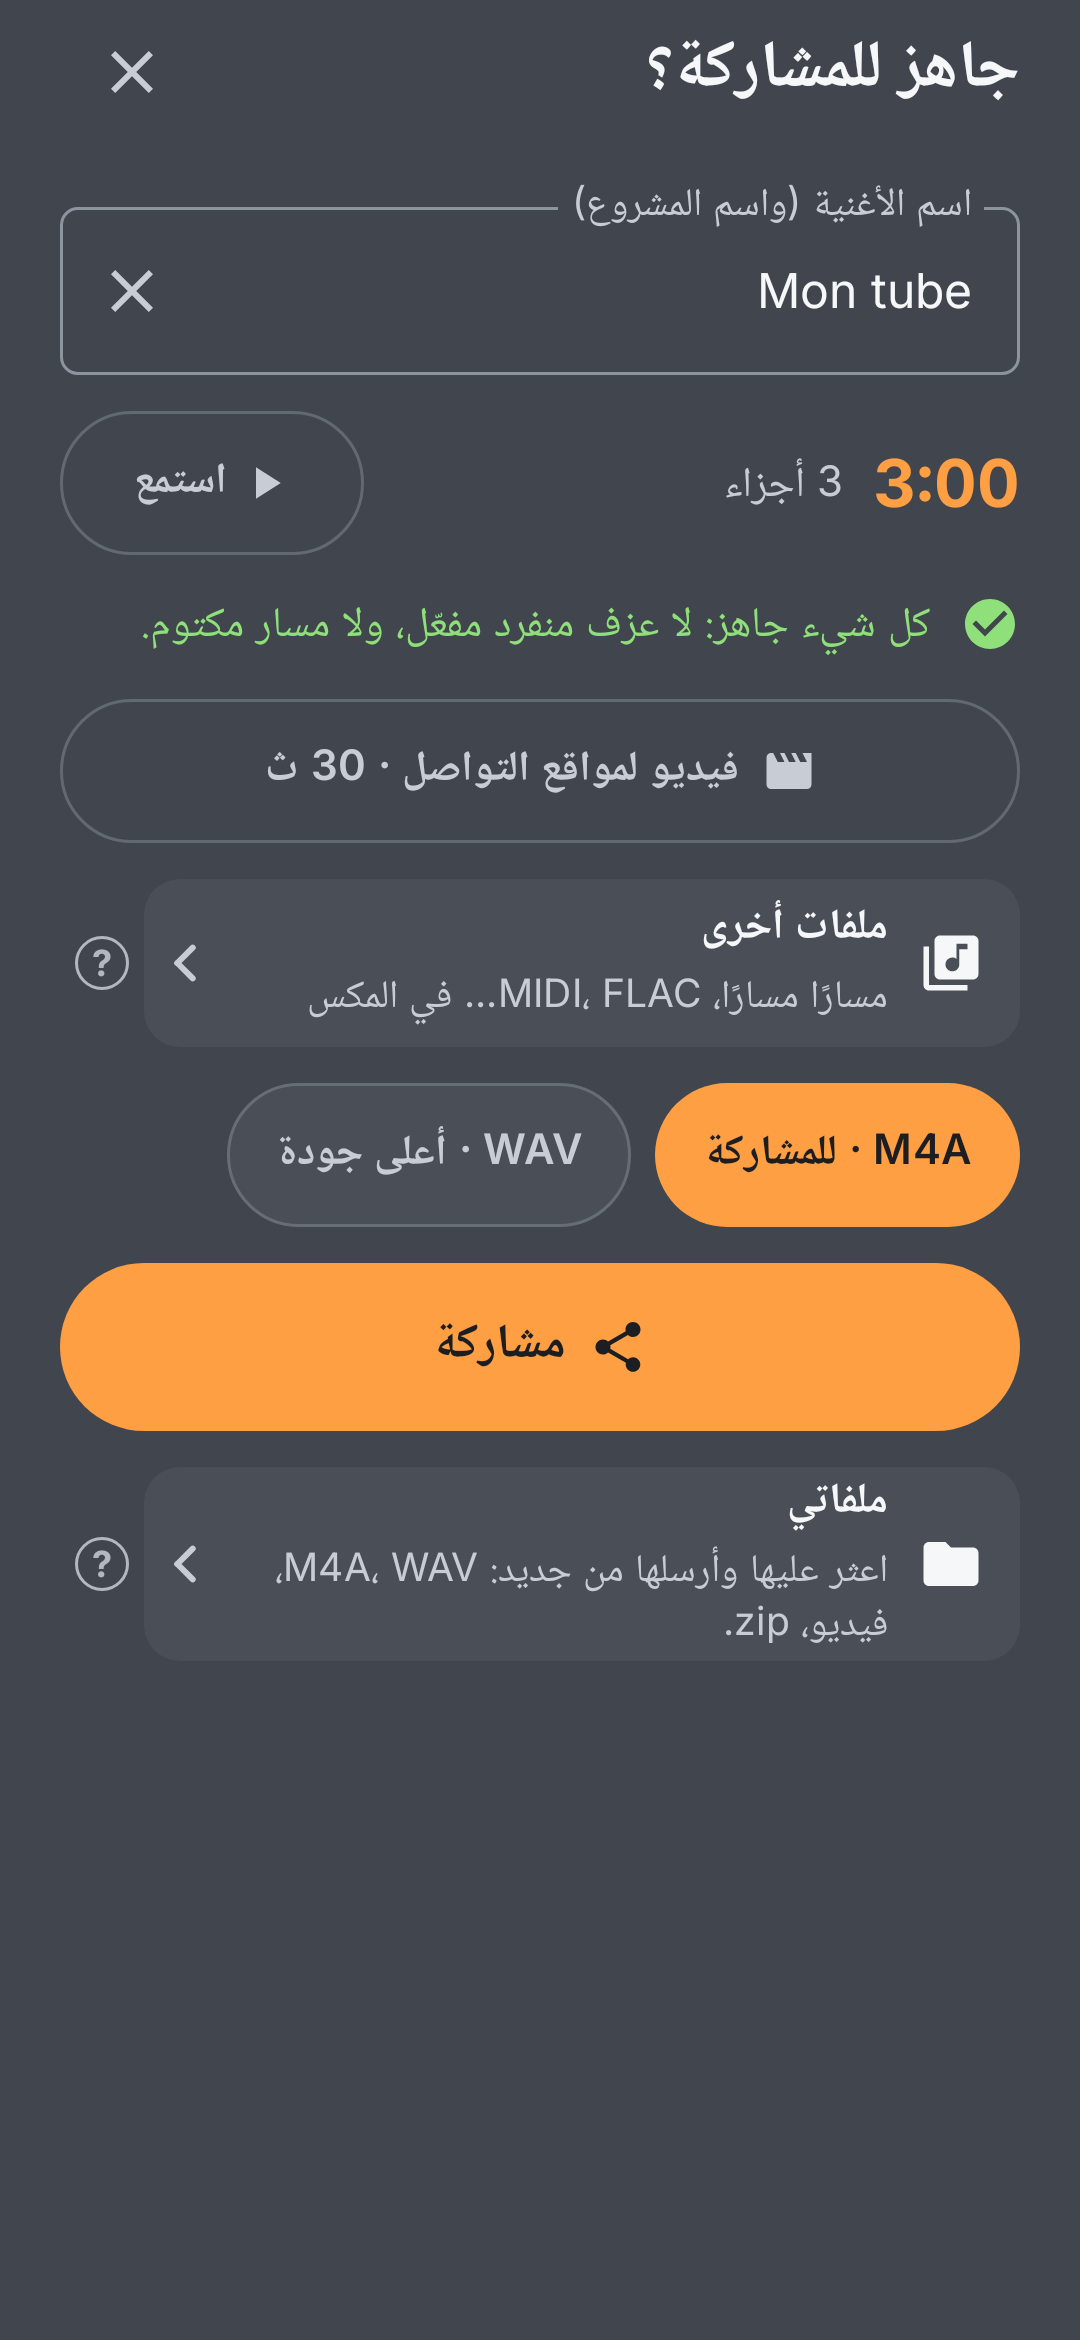
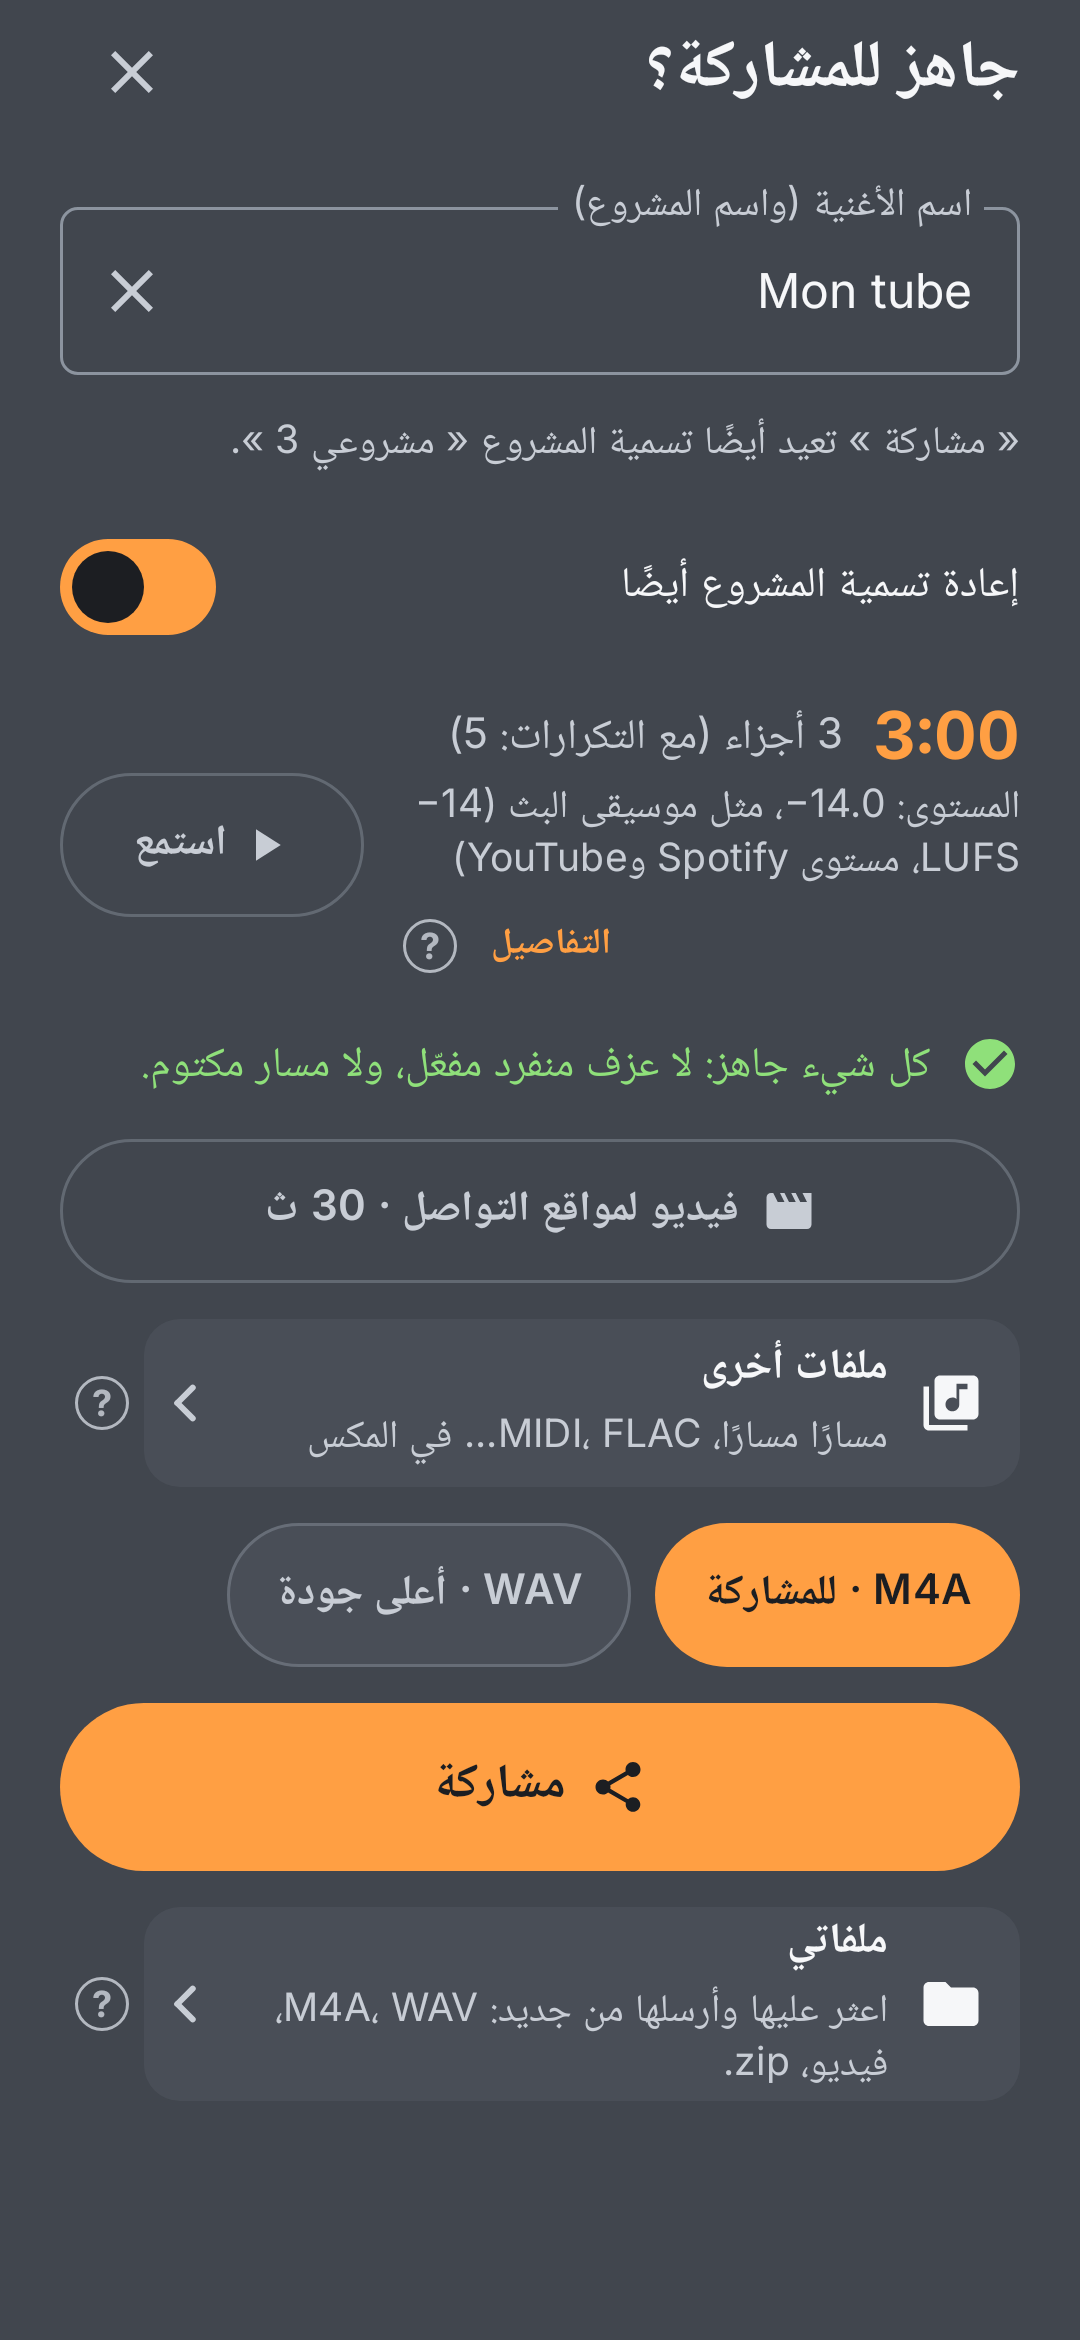
Captures: share sheet with repeats, rename switch and streaming words
Claude-Session: https://claude.ai/code/session_014RxrDKvhB4oNgXkVj2tghN

diff --git a/app/src/test/java/com/pocketstudio/app/export/Tour9L8CapturesTest.kt b/app/src/test/java/com/pocketstudio/app/export/Tour9L8CapturesTest.kt
@@ -57,7 +57,7 @@ class Tour9L8CapturesTest {
     }
 
     private val share: @Composable () -> Unit = {
-        ShareSheetContent(ShareSheetUi("Mon tube", seconds = 180, parts = 3, checks = emptyList()), ShareSheetActions())
+        ShareSheetContent(ShareSheetUi("Mon tube", seconds = 180, parts = 3, rows = 5, checks = emptyList(), projectName = "Mon projet 3", lufs = -14.4, exportLufs = -14.0), ShareSheetActions())
     }
     private val tempo: @Composable () -> Unit = { TempoSheet(124.0, TempoActions(), onClose = {}) }
     private val kit: @Composable () -> Unit = {
